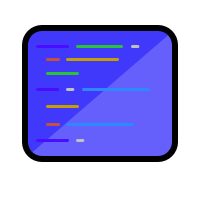
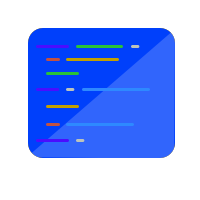
Update branding

diff --git a/src/pages/index.module.css b/src/pages/index.module.css
@@ -10,9 +10,12 @@
   text-align: center;
   position: relative;
   overflow: hidden;
-  background:
+  /*background:
[1 lines of base64/hex data omitted]
-    linear-gradient(45deg, #0701fa, #5e5afb);
+    linear-gradient(45deg, #0701fa, #5e5afb);*/
+  background: 
[1 lines of base64/hex data omitted]
+    linear-gradient(45deg, #002cfb, #0114fb)
   /* border-bottom: 1px solid var(--ifm-toc-border-color); */
 }
 

diff --git a/docusaurus.config.js b/docusaurus.config.js
@@ -4,7 +4,7 @@ const darkCodeTheme = require('prism-react-renderer/themes/dracula');
 /** @type {import('@docusaurus/types').DocusaurusConfig} */
 module.exports = {
   title: 'Atek Cloud',
-  tagline: 'A personal cloud for decentralized apps',
+  tagline: 'A personal cloud for Web 3.0',
   url: 'https://atek.cloud',
   baseUrl: '/',
   onBrokenLinks: 'throw',

diff --git a/src/pages/index.js b/src/pages/index.js
@@ -23,7 +23,7 @@ export default function Home() {
   const {siteConfig} = useDocusaurusContext();
   return (
     <Layout
-      title="Home"
+      title="Atek - a personal cloud for Web 3.0"
       description={siteConfig.description}>
       <HomepageHeader />
       <main>
